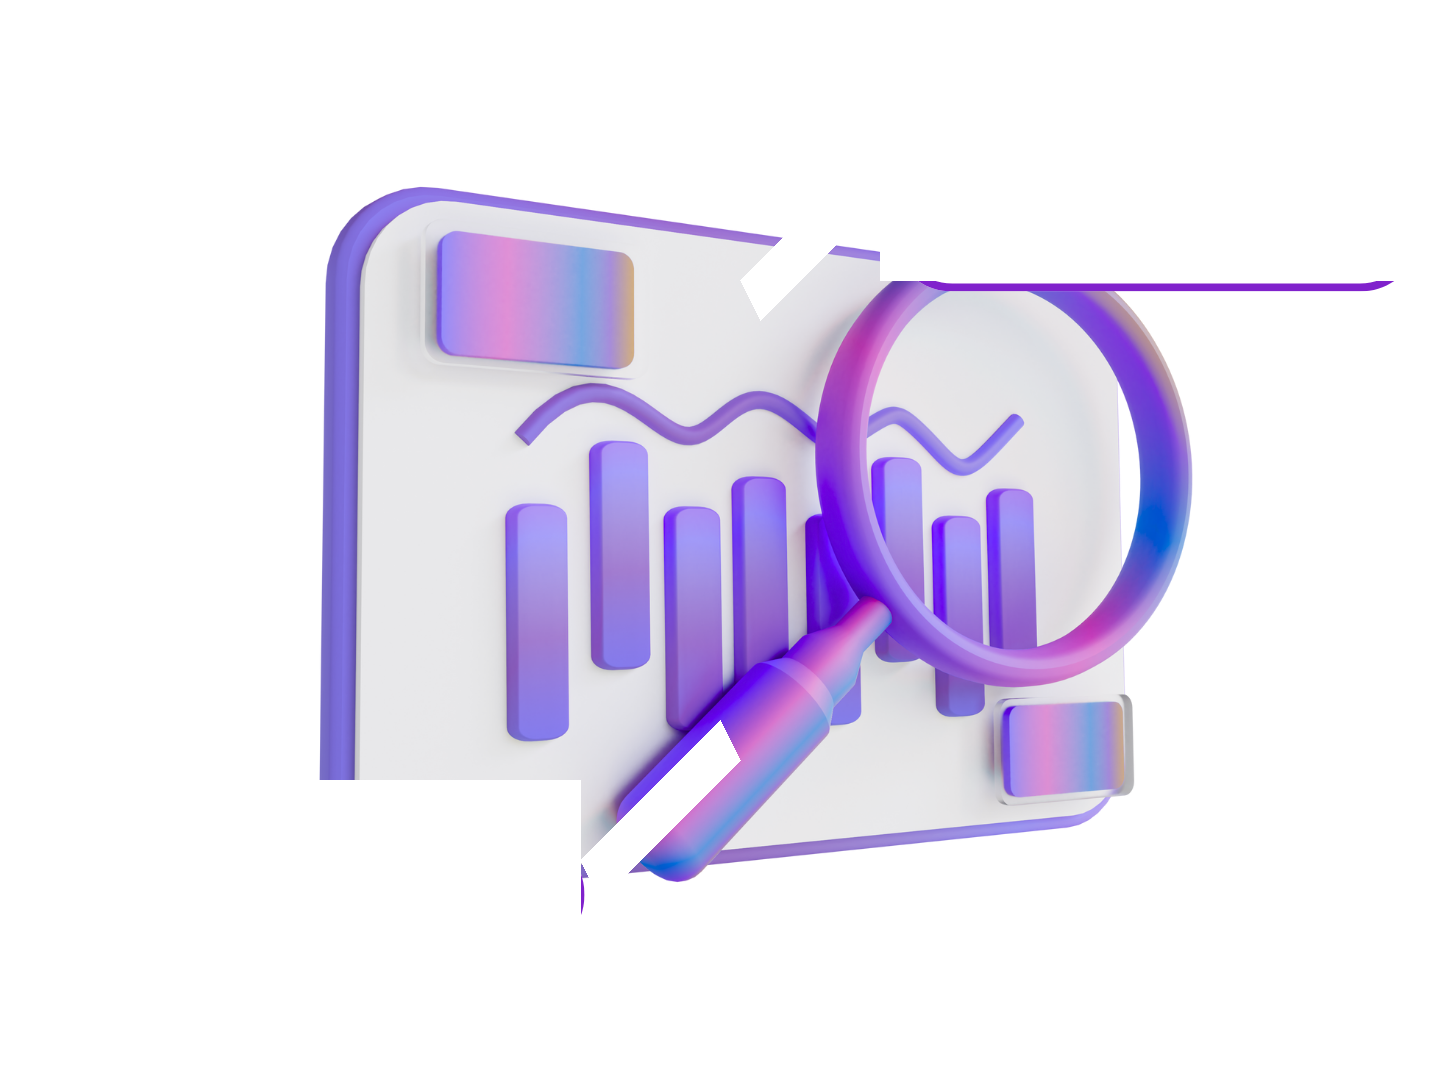
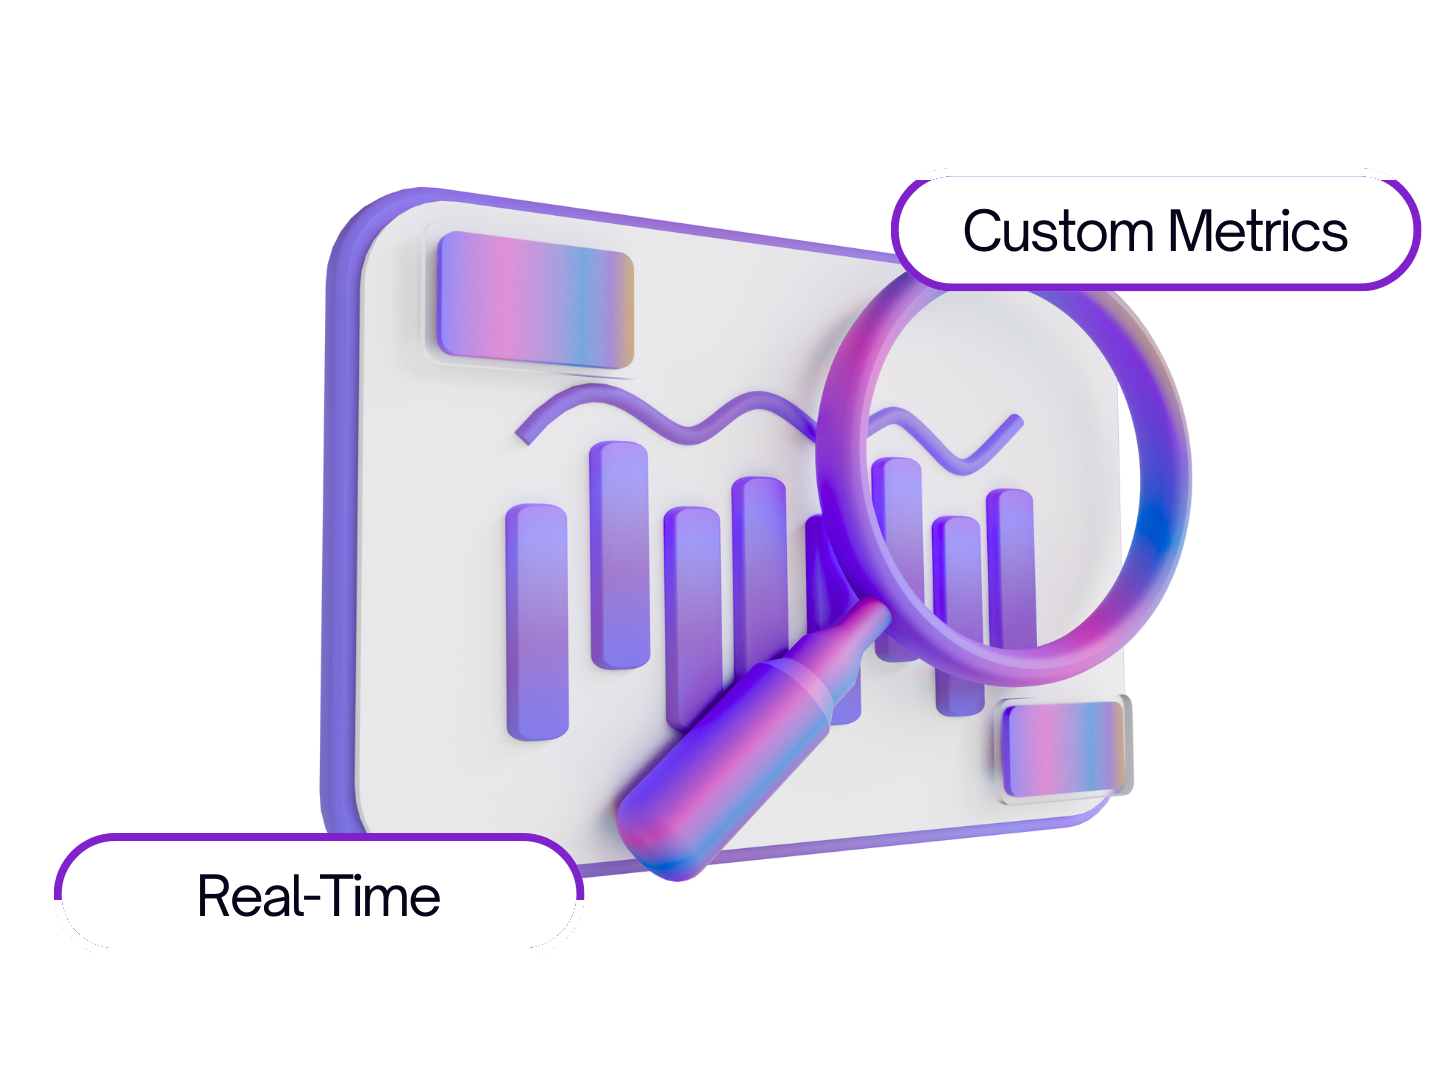
Fix Boxxed illustration lozenge removal; update Kustow link
- Re-process metrics/workflows/outreach PNGs using pixel-level detection to
  erase only white lozenge fill and purple border without cutting through illustration
- Change Kustow CTA from 'Get his book' to 'Discover James' Work >' with line break
  on both superpower page and about page testimonial slider

diff --git a/src/app/about/page.tsx b/src/app/about/page.tsx
@@ -36,7 +36,6 @@ const testimonials = [
     name: "Dr James Kustow, author of How to Thrive with Adult ADHD",
     image: `${WP}/testimonial-placeholder-dr-james-kustow.jpg`,
     link: 'https://www.amazon.co.uk/How-Thrive-Adult-ADHD-Productivity/dp/1785044524',
-    linkText: 'Get his book',
   },
   {
     quote: "Tom and I have collaborated on designing many different products over the years, beginning with his days at Hive. Over this time I've found Tom's approach is like no other leader involved in design, as passionate about the details as he is the big picture thinking, helping to navigate and curate the delicate relationship between functionality, visual identity, and user experience. Combining this journey with Tom's personality and charisma makes him an amazing storyteller, which is a huge asset to the companies and brands he works with.",

diff --git a/src/app/superpower/page.tsx b/src/app/superpower/page.tsx
@@ -43,7 +43,8 @@ export default function SuperpowerPage() {
                   </span>
                   <br />
                   Dr James Kustow, author of How to Thrive with Adult ADHD
-                  <br /><a href="https://www.amazon.co.uk/How-Thrive-Adult-ADHD-Productivity/dp/1785044524" target="_blank" rel="noopener noreferrer">Get his book</a>
+                  <br /><br />
+                  <a href="https://www.amazon.co.uk/How-Thrive-Adult-ADHD-Productivity/dp/1785044524" target="_blank" rel="noopener noreferrer">Discover James&apos; Work &gt;</a>
                 </p>
               </div>
             </div>

diff --git a/src/components/TestimonialSlider.tsx b/src/components/TestimonialSlider.tsx
@@ -15,7 +15,7 @@ export default function TestimonialSlider({ testimonials }: { testimonials: Test
             <span style={{ color: '#868686' }}>{t.quote}</span>
             <br />
             {t.name}
-            {t.link && <><br /><a href={t.link} target="_blank" rel="noopener noreferrer">{t.linkText || 'Discover his work'}</a></>}
+            {t.link && <><br /><br /><a href={t.link} target="_blank" rel="noopener noreferrer">Discover James&apos; Work &gt;</a></>}
           </p>
         </div>
         <div className="col-md-6 order-md-first">
